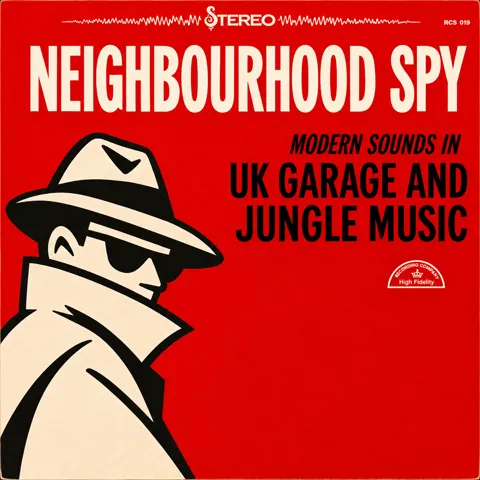
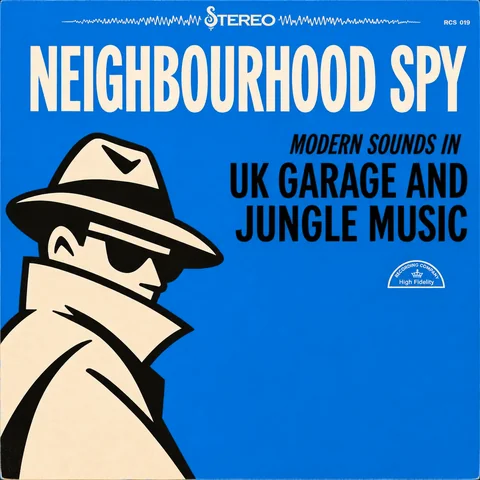
Match Modern Sounds to Bandcamp at $6 and blue the YOU DON'T KNOW ME sleeve. (#835)
CC068 digital is $6 CAD like neighbourhoodspy.bandcamp.com. CC066 keeps the spy mark but swaps the red field for blue.

diff --git a/modern-sounds.html b/modern-sounds.html
@@ -4,7 +4,7 @@
   <meta charset="UTF-8"/>
   <meta name="viewport" content="width=device-width,initial-scale=1,viewport-fit=cover"/>
   <title>MODERN SOUNDS IN UK GARAGE AND JUNGLE MUSIC — Neighbourhood Spy — Club Copy</title>
-  <meta name="description" content="MODERN SOUNDS IN UK GARAGE AND JUNGLE MUSIC — album by Neighbourhood Spy. UK Garage on Club Copy. Digital $9 CAD. Released November 27, 2026."/>
+  <meta name="description" content="MODERN SOUNDS IN UK GARAGE AND JUNGLE MUSIC — album by Neighbourhood Spy. UK Garage on Club Copy. Digital $6 CAD. Released November 27, 2026."/>
   <meta name="theme-color" content="#808080"/>
   <meta name="color-scheme" content="light"/>
   <link rel="canonical" href="https://www.clubcopy.ca/modern-sounds"/>
@@ -12,7 +12,7 @@
   <meta property="og:site_name" content="Club Copy"/>
   <meta property="og:type" content="music.album"/>
   <meta property="og:title" content="MODERN SOUNDS IN UK GARAGE AND JUNGLE MUSIC — Neighbourhood Spy"/>
-  <meta property="og:description" content="MODERN SOUNDS IN UK GARAGE AND JUNGLE MUSIC — album by Neighbourhood Spy. UK Garage on Club Copy. Digital $9 CAD. Released November 27, 2026."/>
+  <meta property="og:description" content="MODERN SOUNDS IN UK GARAGE AND JUNGLE MUSIC — album by Neighbourhood Spy. UK Garage on Club Copy. Digital $6 CAD. Released November 27, 2026."/>
   <meta property="og:url" content="https://www.clubcopy.ca/modern-sounds"/>
   <meta property="og:image" content="https://www.clubcopy.ca/modern-sounds-cover.webp"/>
   <meta name="twitter:card" content="summary_large_image"/>
@@ -56,7 +56,7 @@
   <link rel="stylesheet" href="/css/cc.css?v=cc42"/>
   <link rel="stylesheet" href="/css/mac.css?v=cc42"/>
   <link rel="preload" as="image" href="/modern-sounds-cover.webp" fetchpriority="high"/>
-  <script type="application/ld+json">{"@context":"https://schema.org","@type":"MusicAlbum","name":"MODERN SOUNDS IN UK GARAGE AND JUNGLE MUSIC","byArtist":{"@type":"MusicGroup","name":"Neighbourhood Spy","url":"https://www.clubcopy.ca/artists/neighbourhood-spy"},"albumReleaseType":"AlbumRelease","datePublished":"2026-11-27","image":"https://www.clubcopy.ca/modern-sounds-cover.webp","recordLabel":{"@type":"Organization","name":"Club Copy"},"catalogNumber":"CC068","numTracks":5,"track":[{"@type":"MusicRecording","name":"HEARD EM SAY","position":1,"duration":"PT4M17S"},{"@type":"MusicRecording","name":"THINK TWICE","position":2,"duration":"PT4M5S"},{"@type":"MusicRecording","name":"YOU DON'T KNOW ME","position":3,"duration":"PT4M59S"},{"@type":"MusicRecording","name":"I ONLY HAVE EYES FOR YOU","position":4,"duration":"PT6M27S"},{"@type":"MusicRecording","name":"THE HEART (TIME)","position":5,"duration":"PT4M52S"}],"offers":[{"@type":"Offer","price":"9","priceCurrency":"CAD","availability":"https://schema.org/InStock","itemOffered":{"@type":"Product","name":"MODERN SOUNDS IN UK GARAGE AND JUNGLE MUSIC — Digital"}}]}</script>
+  <script type="application/ld+json">{"@context":"https://schema.org","@type":"MusicAlbum","name":"MODERN SOUNDS IN UK GARAGE AND JUNGLE MUSIC","byArtist":{"@type":"MusicGroup","name":"Neighbourhood Spy","url":"https://www.clubcopy.ca/artists/neighbourhood-spy"},"albumReleaseType":"AlbumRelease","datePublished":"2026-11-27","image":"https://www.clubcopy.ca/modern-sounds-cover.webp","recordLabel":{"@type":"Organization","name":"Club Copy"},"catalogNumber":"CC068","numTracks":5,"track":[{"@type":"MusicRecording","name":"HEARD EM SAY","position":1,"duration":"PT4M17S"},{"@type":"MusicRecording","name":"THINK TWICE","position":2,"duration":"PT4M5S"},{"@type":"MusicRecording","name":"YOU DON'T KNOW ME","position":3,"duration":"PT4M59S"},{"@type":"MusicRecording","name":"I ONLY HAVE EYES FOR YOU","position":4,"duration":"PT6M27S"},{"@type":"MusicRecording","name":"THE HEART (TIME)","position":5,"duration":"PT4M52S"}],"offers":[{"@type":"Offer","price":"6","priceCurrency":"CAD","availability":"https://schema.org/InStock","itemOffered":{"@type":"Product","name":"MODERN SOUNDS IN UK GARAGE AND JUNGLE MUSIC — Digital"}}]}</script>
 </head>
 <body class="cc archive-release release-page">
 <a class="skip-link" href="#main">Skip to content</a>
@@ -187,7 +187,7 @@
       <div class="lead-player">
         <div class="lead-keys ra-hero-ctas">
           <button type="button" class="btn btn-solid" id="heroListen" aria-label="Play"><svg class="glyph-play" viewBox="0 0 24 24" aria-hidden="true"><path d="M6 4v16l14-8z"/></svg><svg class="glyph-pause" viewBox="0 0 24 24" aria-hidden="true"><path d="M6 4h4.5v16H6zM13.5 4H18v16h-4.5z"/></svg><span class="btn-label btn-label--play">Play</span><span class="btn-label btn-label--pause">Pause</span></button>
-          <button type="button" class="btn" id="buyDigitalBtn">Digital · $9</button>
+          <button type="button" class="btn" id="buyDigitalBtn">Digital · $6</button>
           
         </div>
         <div class="ra-tracks hero-tracks" role="list" aria-label="Tracks">
@@ -210,7 +210,7 @@
 
 <section class="sec release-about" aria-label="About the release">
   <div class="fact-rows">
-    <div class="fact-row fact-row--notes"><p class="fact-label mono">Notes</p><div class="release-notes"><p>Five tracks from Neighbourhood Spy. Digital is $9 CAD, with streaming on site and a download after checkout. Released November 27, 2026. Produced for Club Copy and Copy House Publishing.</p></div></div>
+    <div class="fact-row fact-row--notes"><p class="fact-label mono">Notes</p><div class="release-notes"><p>Five tracks from Neighbourhood Spy. Digital is $6 CAD, with streaming on site and a download after checkout. Released November 27, 2026. Produced for Club Copy and Copy House Publishing.</p></div></div>
     <div class="fact-row"><p class="fact-label mono">Artist</p><p class="fact-value"><a href="/artists/neighbourhood-spy">Neighbourhood Spy</a></p></div>
     <div class="fact-row"><p class="fact-label mono">Catalogue</p><p class="fact-value">CC068</p></div>
     <div class="fact-row"><p class="fact-label mono">Format</p><p class="fact-value">Digital Album · 5 tracks</p></div>
@@ -306,6 +306,6 @@
 <script src="/js/cc.js?v=cc20"></script>
 <script src="/js/release-bind.js?v=cc20"></script>
 <script>VCRReleaseBind({"releaseId":"modern-sounds","previewTrackId":"msu-01","tracks":[{"id":"msu-01","title":"HEARD EM SAY"},{"id":"msu-02","title":"THINK TWICE"},{"id":"msu-03","title":"YOU DON'T KNOW ME"},{"id":"msu-04","title":"I ONLY HAVE EYES FOR YOU"},{"id":"msu-05","title":"THE HEART (TIME)"}]});
-(function(){var F={"digital":{"sku":"dg-modern-sounds","name":"MODERN SOUNDS IN UK GARAGE AND JUNGLE MUSIC — Digital (Album)","price":9,"image":"/modern-sounds-cover.webp"}};var t=null;function bind(id,k){var b=document.getElementById(id);if(!b)return;var label=b.textContent;b.addEventListener("click",function(){var f=F[k];if(!f||!window.VCRCart)return;VCRCart.add({sku:f.sku,name:f.name,price:f.price,image:f.image,qty:1,id:f.sku});b.textContent="Added";clearTimeout(t);t=setTimeout(function(){b.textContent=label;},2200);});}bind("buyDigitalBtn","digital");bind("buyBtn","cassette");})();</script>
+(function(){var F={"digital":{"sku":"dg-modern-sounds","name":"MODERN SOUNDS IN UK GARAGE AND JUNGLE MUSIC — Digital (Album)","price":6,"image":"/modern-sounds-cover.webp"}};var t=null;function bind(id,k){var b=document.getElementById(id);if(!b)return;var label=b.textContent;b.addEventListener("click",function(){var f=F[k];if(!f||!window.VCRCart)return;VCRCart.add({sku:f.sku,name:f.name,price:f.price,image:f.image,qty:1,id:f.sku});b.textContent="Added";clearTimeout(t);t=setTimeout(function(){b.textContent=label;},2200);});}bind("buyDigitalBtn","digital");bind("buyBtn","cassette");})();</script>
 </body>
 </html>

diff --git a/library.html b/library.html
@@ -205,7 +205,7 @@
 </section>
 
 <div class="cat-list" id="catList" aria-live="polite">
-<article class="cat-row" data-release="modern-sounds" data-artist-id="neighbourhood-spy" data-genre="uk-garage"><div class="cat-cover"><a href="/modern-sounds" tabindex="-1" aria-hidden="true"><img src="/modern-sounds-cover-480.webp" alt="MODERN SOUNDS IN UK GARAGE AND JUNGLE MUSIC — Neighbourhood Spy" width="480" height="480" loading="lazy"/></a><button type="button" class="cat-play" data-play-release="modern-sounds" data-play-track="msu-01" aria-label="Play MODERN SOUNDS IN UK GARAGE AND JUNGLE MUSIC"><svg class="cp-play" viewBox="0 0 24 24" aria-hidden="true"><path d="M8 5v14l11-7z"/></svg><svg class="cp-pause" viewBox="0 0 24 24" aria-hidden="true"><path d="M7 5h3.4v14H7zM13.6 5H17v14h-3.4z"/></svg></button><span class="cat-air status-chip status-chip--air" aria-hidden="true">On air</span></div><div class="cat-main"><p class="cat-id">CC068</p><a class="cat-title" href="/modern-sounds">MODERN SOUNDS IN UK GARAGE AND JUNGLE MUSIC</a><span class="cat-artist">Neighbourhood Spy</span><div class="cat-tags"><span class="cat-cue">Album · DL · 24:40</span></div></div><div class="cat-side"><div class="cat-price"><p class="cat-price-line"><span class="cat-price-amt">$9</span></p></div><button type="button" class="cat-add cat-add--price" data-add-release="modern-sounds" data-sku="dg-modern-sounds" data-name="MODERN SOUNDS IN UK GARAGE AND JUNGLE MUSIC — Digital" data-price="9" data-image="/modern-sounds-cover.webp" aria-label="Add MODERN SOUNDS IN UK GARAGE AND JUNGLE MUSIC for $9">$9</button></div></article>
+<article class="cat-row" data-release="modern-sounds" data-artist-id="neighbourhood-spy" data-genre="uk-garage"><div class="cat-cover"><a href="/modern-sounds" tabindex="-1" aria-hidden="true"><img src="/modern-sounds-cover-480.webp" alt="MODERN SOUNDS IN UK GARAGE AND JUNGLE MUSIC — Neighbourhood Spy" width="480" height="480" loading="lazy"/></a><button type="button" class="cat-play" data-play-release="modern-sounds" data-play-track="msu-01" aria-label="Play MODERN SOUNDS IN UK GARAGE AND JUNGLE MUSIC"><svg class="cp-play" viewBox="0 0 24 24" aria-hidden="true"><path d="M8 5v14l11-7z"/></svg><svg class="cp-pause" viewBox="0 0 24 24" aria-hidden="true"><path d="M7 5h3.4v14H7zM13.6 5H17v14h-3.4z"/></svg></button><span class="cat-air status-chip status-chip--air" aria-hidden="true">On air</span></div><div class="cat-main"><p class="cat-id">CC068</p><a class="cat-title" href="/modern-sounds">MODERN SOUNDS IN UK GARAGE AND JUNGLE MUSIC</a><span class="cat-artist">Neighbourhood Spy</span><div class="cat-tags"><span class="cat-cue">Album · DL · 24:40</span></div></div><div class="cat-side"><div class="cat-price"><p class="cat-price-line"><span class="cat-price-amt">$6</span></p></div><button type="button" class="cat-add cat-add--price" data-add-release="modern-sounds" data-sku="dg-modern-sounds" data-name="MODERN SOUNDS IN UK GARAGE AND JUNGLE MUSIC — Digital" data-price="6" data-image="/modern-sounds-cover.webp" aria-label="Add MODERN SOUNDS IN UK GARAGE AND JUNGLE MUSIC for $6">$6</button></div></article>
 <article class="cat-row" data-release="you-dont-know-me" data-artist-id="neighbourhood-spy" data-genre="house"><div class="cat-cover"><a href="/you-dont-know-me" tabindex="-1" aria-hidden="true"><img src="/you-dont-know-me-cover-480.webp" alt="YOU DON&#39;T KNOW ME — Neighbourhood Spy" width="480" height="480" loading="lazy"/></a><button type="button" class="cat-play" data-play-release="you-dont-know-me" data-play-track="ydk-01" aria-label="Play YOU DON&#39;T KNOW ME"><svg class="cp-play" viewBox="0 0 24 24" aria-hidden="true"><path d="M8 5v14l11-7z"/></svg><svg class="cp-pause" viewBox="0 0 24 24" aria-hidden="true"><path d="M7 5h3.4v14H7zM13.6 5H17v14h-3.4z"/></svg></button><span class="cat-air status-chip status-chip--air" aria-hidden="true">On air</span></div><div class="cat-main"><p class="cat-id">CC066</p><a class="cat-title" href="/you-dont-know-me">YOU DON'T KNOW ME</a><span class="cat-artist">Neighbourhood Spy</span><div class="cat-tags"><span class="cat-cue">Single · DL · 4:59</span></div></div><div class="cat-side"><div class="cat-price"><p class="cat-price-line"><span class="cat-price-amt">$1.50</span></p></div><button type="button" class="cat-add cat-add--price" data-add-release="you-dont-know-me" data-sku="dg-you-dont-know-me" data-name="YOU DON&#39;T KNOW ME — Digital" data-price="1.5" data-image="/you-dont-know-me-cover.webp" aria-label="Add YOU DON&#39;T KNOW ME for $1.50">$1.50</button></div></article>
 <article class="cat-row" data-release="doomsday" data-artist-id="neighbourhood-spy" data-genre="house"><div class="cat-cover"><a href="/doomsday" tabindex="-1" aria-hidden="true"><img src="/doomsday-cover-480.webp" alt="Doomsday — Neighbourhood Spy" width="480" height="480" loading="lazy"/></a><button type="button" class="cat-play" data-play-release="doomsday" data-play-track="dmd-01" aria-label="Play Doomsday"><svg class="cp-play" viewBox="0 0 24 24" aria-hidden="true"><path d="M8 5v14l11-7z"/></svg><svg class="cp-pause" viewBox="0 0 24 24" aria-hidden="true"><path d="M7 5h3.4v14H7zM13.6 5H17v14h-3.4z"/></svg></button><span class="cat-air status-chip status-chip--air" aria-hidden="true">On air</span></div><div class="cat-main"><p class="cat-id">CC067</p><a class="cat-title" href="/doomsday">Doomsday</a><span class="cat-artist">Neighbourhood Spy</span><div class="cat-tags"><span class="cat-cue">Album · DL · 30:46</span></div></div><div class="cat-side"><div class="cat-price"><p class="cat-price-line"><span class="cat-price-amt">$9</span></p></div><button type="button" class="cat-add cat-add--price" data-add-release="doomsday" data-sku="dg-doomsday" data-name="Doomsday — Digital" data-price="9" data-image="/doomsday-cover.webp" aria-label="Add Doomsday for $9">$9</button></div></article>
 <article class="cat-row" data-release="say-it" data-artist-id="archie" data-genre="uk-garage"><div class="cat-cover"><a href="/say-it" tabindex="-1" aria-hidden="true"><img src="/say-it-cover-480.webp" alt="say it — Archie" width="480" height="480" loading="lazy"/></a><button type="button" class="cat-play" data-play-release="say-it" data-play-track="say-01" aria-label="Play say it"><svg class="cp-play" viewBox="0 0 24 24" aria-hidden="true"><path d="M8 5v14l11-7z"/></svg><svg class="cp-pause" viewBox="0 0 24 24" aria-hidden="true"><path d="M7 5h3.4v14H7zM13.6 5H17v14h-3.4z"/></svg></button><span class="cat-air status-chip status-chip--air" aria-hidden="true">On air</span></div><div class="cat-main"><p class="cat-id">CC065</p><a class="cat-title" href="/say-it">say it</a><span class="cat-artist">Archie</span><div class="cat-tags"><span class="cat-cue">Single · DL · 4:17</span></div></div><div class="cat-side"><div class="cat-price"><p class="cat-price-line"><span class="cat-price-amt">$1.50</span></p></div><button type="button" class="cat-add cat-add--price" data-add-release="say-it" data-sku="dg-say-it" data-name="say it — Digital" data-price="1.5" data-image="/say-it-cover.webp" aria-label="Add say it for $1.50">$1.50</button></div></article>

diff --git a/index.html b/index.html
@@ -205,7 +205,7 @@
     <button type="button" class="key key--play sleeve-key" data-play-release="modern-sounds" data-play-track="msu-01" aria-label="Play MODERN SOUNDS IN UK GARAGE AND JUNGLE MUSIC"><svg class="sc-play" viewBox="0 0 24 24" aria-hidden="true"><path d="M8 5v14l11-7z"/></svg><svg class="sc-pause" viewBox="0 0 24 24" aria-hidden="true"><path d="M7 5h3.4v14H7zM13.6 5H17v14h-3.4z"/></svg></button>
   </div>
   <div class="sleeve-copy">
-    <p class="mono sleeve-meta"><span>CC068</span><span>27 Nov 2026</span><span class="sleeve-offer"><button type="button" class="sleeve-buy" data-add-release="modern-sounds" data-sku="dg-modern-sounds" data-name="MODERN SOUNDS IN UK GARAGE AND JUNGLE MUSIC — Digital" data-price="9" data-image="/modern-sounds-cover.webp" aria-label="Add digital for $9">$9</button></span></p>
+    <p class="mono sleeve-meta"><span>CC068</span><span>27 Nov 2026</span><span class="sleeve-offer"><button type="button" class="sleeve-buy" data-add-release="modern-sounds" data-sku="dg-modern-sounds" data-name="MODERN SOUNDS IN UK GARAGE AND JUNGLE MUSIC — Digital" data-price="6" data-image="/modern-sounds-cover.webp" aria-label="Add digital for $6">$6</button></span></p>
     <h3 class="sleeve-title"><a href="/modern-sounds">MODERN SOUNDS IN UK GARAGE AND JUNGLE MUSIC</a></h3>
     <p class="sleeve-by row-artist">Neighbourhood Spy</p>
   </div>

diff --git a/artists/neighbourhood-spy.html b/artists/neighbourhood-spy.html
@@ -198,7 +198,7 @@
     <p class="row-title"><a href="/modern-sounds">MODERN SOUNDS IN UK GARAGE AND JUNGLE MUSIC</a></p>
     <div class="row-actions">
       <button type="button" class="key key--play" data-play-release="modern-sounds" data-play-track="msu-01" aria-label="Play MODERN SOUNDS IN UK GARAGE AND JUNGLE MUSIC"><svg class="sc-play" viewBox="0 0 24 24" aria-hidden="true"><path d="M8 5v14l11-7z"/></svg><svg class="sc-pause" viewBox="0 0 24 24" aria-hidden="true"><path d="M7 5h3.4v14H7zM13.6 5H17v14h-3.4z"/></svg></button>
-      <button type="button" class="btn btn-small cat-add" data-add-release="modern-sounds" data-sku="dg-modern-sounds" data-name="MODERN SOUNDS IN UK GARAGE AND JUNGLE MUSIC — Digital" data-price="9" data-image="/modern-sounds-cover.webp">Digital · $9</button>
+      <button type="button" class="btn btn-small cat-add" data-add-release="modern-sounds" data-sku="dg-modern-sounds" data-name="MODERN SOUNDS IN UK GARAGE AND JUNGLE MUSIC — Digital" data-price="6" data-image="/modern-sounds-cover.webp">Digital · $6</button>
       <span class="mono row-fmt">DL</span>
     </div>
   </div>

diff --git a/doomsday.html b/doomsday.html
@@ -233,7 +233,7 @@
     <p class="row-title"><a href="/modern-sounds">MODERN SOUNDS IN UK GARAGE AND JUNGLE MUSIC</a></p>
     <div class="row-actions">
       <button type="button" class="key key--play" data-play-release="modern-sounds" data-play-track="msu-01" aria-label="Play MODERN SOUNDS IN UK GARAGE AND JUNGLE MUSIC"><svg class="sc-play" viewBox="0 0 24 24" aria-hidden="true"><path d="M8 5v14l11-7z"/></svg><svg class="sc-pause" viewBox="0 0 24 24" aria-hidden="true"><path d="M7 5h3.4v14H7zM13.6 5H17v14h-3.4z"/></svg></button>
-      <button type="button" class="btn btn-small cat-add" data-add-release="modern-sounds" data-sku="dg-modern-sounds" data-name="MODERN SOUNDS IN UK GARAGE AND JUNGLE MUSIC — Digital" data-price="9" data-image="/modern-sounds-cover.webp">Digital · $9</button>
+      <button type="button" class="btn btn-small cat-add" data-add-release="modern-sounds" data-sku="dg-modern-sounds" data-name="MODERN SOUNDS IN UK GARAGE AND JUNGLE MUSIC — Digital" data-price="6" data-image="/modern-sounds-cover.webp">Digital · $6</button>
       <span class="mono row-fmt">DL</span>
     </div>
   </div>

diff --git a/you-dont-know-me.html b/you-dont-know-me.html
@@ -226,7 +226,7 @@
     <p class="row-title"><a href="/modern-sounds">MODERN SOUNDS IN UK GARAGE AND JUNGLE MUSIC</a></p>
     <div class="row-actions">
       <button type="button" class="key key--play" data-play-release="modern-sounds" data-play-track="msu-01" aria-label="Play MODERN SOUNDS IN UK GARAGE AND JUNGLE MUSIC"><svg class="sc-play" viewBox="0 0 24 24" aria-hidden="true"><path d="M8 5v14l11-7z"/></svg><svg class="sc-pause" viewBox="0 0 24 24" aria-hidden="true"><path d="M7 5h3.4v14H7zM13.6 5H17v14h-3.4z"/></svg></button>
-      <button type="button" class="btn btn-small cat-add" data-add-release="modern-sounds" data-sku="dg-modern-sounds" data-name="MODERN SOUNDS IN UK GARAGE AND JUNGLE MUSIC — Digital" data-price="9" data-image="/modern-sounds-cover.webp">Digital · $9</button>
+      <button type="button" class="btn btn-small cat-add" data-add-release="modern-sounds" data-sku="dg-modern-sounds" data-name="MODERN SOUNDS IN UK GARAGE AND JUNGLE MUSIC — Digital" data-price="6" data-image="/modern-sounds-cover.webp">Digital · $6</button>
       <span class="mono row-fmt">DL</span>
     </div>
   </div>

diff --git a/scripts/test-bandcamp-lib.js b/scripts/test-bandcamp-lib.js
@@ -435,7 +435,7 @@ assert.deepStrictEqual(
 const modernSounds = catalog.releases.find((r) => r.id === "modern-sounds");
 assert.deepStrictEqual(
   [modernSounds.catalogue, modernSounds.title, modernSounds.artistId, modernSounds.kind, modernSounds.genre, modernSounds.released, modernSounds.page, modernSounds.formats.digital.price, modernSounds.formats.digital.sku, modernSounds.bandcampUrl, modernSounds.tracks.length, products[modernSounds.formats.digital.sku].unitAmount],
-  ["CC068", "MODERN SOUNDS IN UK GARAGE AND JUNGLE MUSIC", "neighbourhood-spy", "Album", "UK Garage", "2026-11-27", "/modern-sounds", 9, "dg-modern-sounds", "https://neighbourhoodspy.bandcamp.com/album/modern-sounds-in-uk-garage-and-jungle-music", 5, 900]
+  ["CC068", "MODERN SOUNDS IN UK GARAGE AND JUNGLE MUSIC", "neighbourhood-spy", "Album", "UK Garage", "2026-11-27", "/modern-sounds", 6, "dg-modern-sounds", "https://neighbourhoodspy.bandcamp.com/album/modern-sounds-in-uk-garage-and-jungle-music", 5, 600]
 );
 assert.deepStrictEqual(
   modernSounds.tracks.map((t) => [t.trackNum, t.id, t.title, t.duration, t.bandcampTrackId]),

diff --git a/lib/catalog.js b/lib/catalog.js
@@ -195,7 +195,7 @@ const PRODUCTS = {
   },
   "dg-modern-sounds": {
     name: "MODERN SOUNDS IN UK GARAGE AND JUNGLE MUSIC — Digital (Album)",
-    unitAmount: 900,
+    unitAmount: 600,
     digital: true,
     format: "digital",
   },
